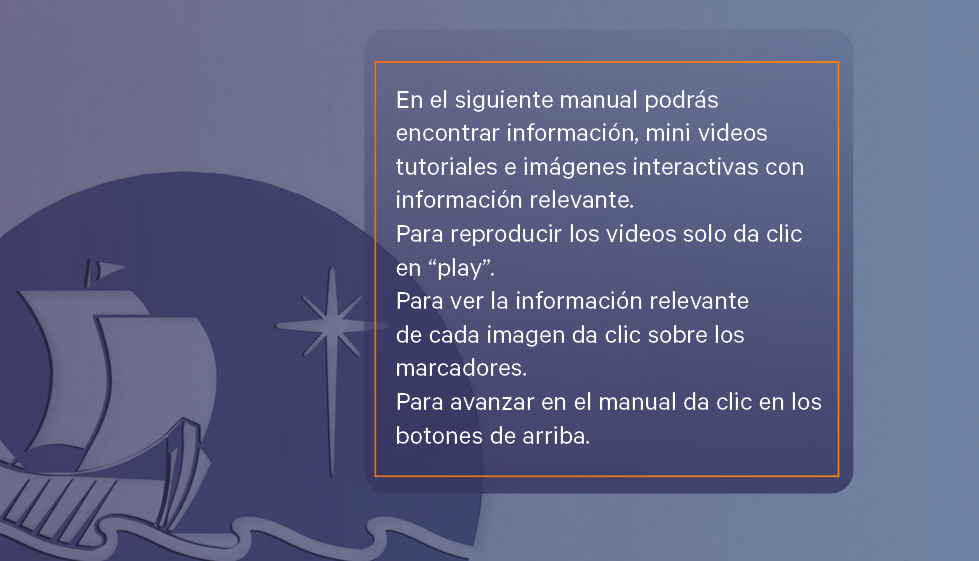
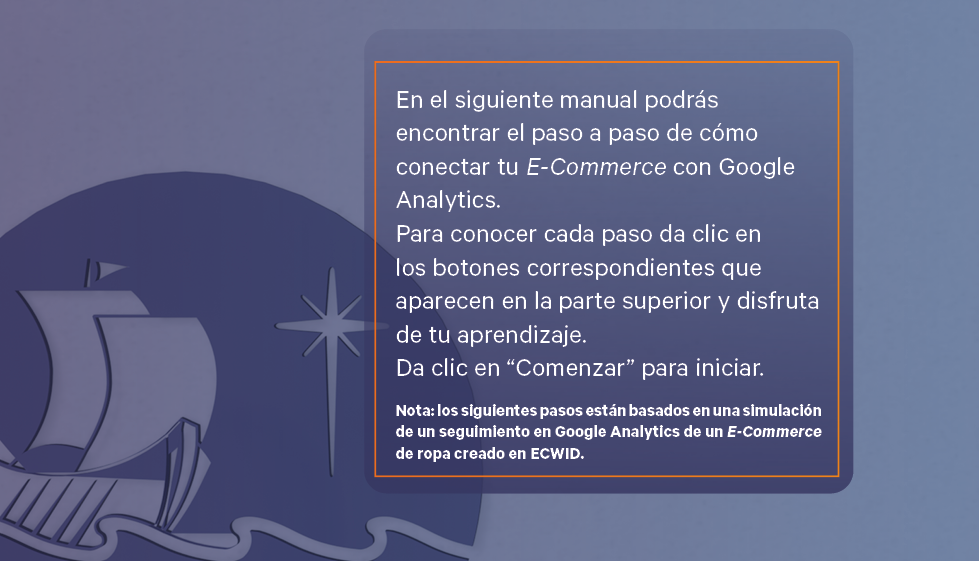
cambio

Changed region(s): [[0.3984, 0.2121, 0.8274, 0.6667], [0.3984, 0.697, 0.858, 0.8182]]

diff --git a/contenido.html b/contenido.html
@@ -30,25 +30,18 @@
         <button class="btn_nav paso6">Paso 6</button>
         <button class="btn_nav final">Final</button>
 
-        <div class="cuerpo">Configura tu cuenta. Es decir ese administrador que va estar analizando uno o varios sitos o
-          incluso una aplicación.</div>
+        <div class="cuerpo">Configura tu cuenta. Es decir ese administrador que va a estar analizando uno o varios sitos
+          o incluso una aplicación.</div>
         <div class="imagenes-1">
-          <img class="img2" src="images\Picture2.png" alt="" srcset=""><img class="img2" src="images\Picture3.png"
-            alt="" srcset="">
+          <img class="img2" src="images\Picture8.png" alt="" srcset="">
+          <div class="lista">
+            <ul>
+              <li>Agrega el nombre con el que quieres manejar tu cuenta. Ejemplo: “Negocios de Giulio.”</li><br><br><br>
+              <li>Selecciona cómo quieres compartir datos de la cuenta con Google. En este simulador seleccionamos
+                “Todos”.</li>
+            </ul>
+          </div>
         </div>
-        <div class="imagenes-1">
-          <div class="cuerpo2">Configura tu cuenta. Es decir ese administrador que va estar analizando uno o varios
-            sitos
-            o
-            incluso una aplicación.</div>
-          <div class="cuerpo2">Configura tu cuenta. Es decir ese administrador que va estar analizando uno o varios
-            sitos
-            o
-            incluso una aplicación.</div>
-        </div>
-
-
-
       </div>
     </div>
   </div>
@@ -72,10 +65,10 @@
 
         <div class="cuerpo3">
           <img src="images\Picture4.png" alt="" class="imgp3">
-          <div class="textop3">Una cuenta es administrador que define una serie de propiedades.
-            Y una propiedad es aquella que va a estar conectada a un sitio o una aplicación que tú quieras analizar.
-            Ejemplo: <i>E-Commerce</i> - Ropa hombre y mujer.Recuerda que tu decides que nombre ponerle, dependiendo tu
-            administración.
+          <div class="textop3">Una cuenta de administrador define una serie de propiedades. <br> <br> <br>Y una
+            propiedad es aquella que va a estar conectada a un sitio o aplicación que quieras analizar.<br> <br>
+            <br>Ejemplo: <i>E-Commerce</i> - Ropa hombre y mujer.<br> <br> <br> Recuerda que tú decides qué nombre
+            ponerle, dependiendo tu administración.
           </div>
         </div>
         <div class="cuerpo4">Ajusta tu zona horaria y tu moneda según donde te encuentres.</div>
@@ -120,6 +113,7 @@
       <div id="contact">
         <h1>Paso 5</h1>
 
+
         <button class="btn_nav paso1 visitado">Paso 1</button>
         <button class="btn_nav paso2 visitado">Paso 2</button>
         <button class="btn_nav paso3 visitado">Paso 3</button>
@@ -128,15 +122,16 @@
         <button class="btn_nav paso6">Paso 6</button>
         <button class="btn_nav final">Final</button>
 
+        <div class="cuerpo">Configura cada propiedad, dando clic sobre ella y agregando el código de seguimiento.</div>
+
         <div class="cuerpo3">
           <iframe
             src="https://cdnapisec.kaltura.com/p/2384071/sp/238407100/embedIframeJs/uiconf_id/44235471/partner_id/2384071?iframeembed=true&playerId=kaltura_player_1669368029&entry_id=1_m3nw7ryc"
             style="border:0px #ffffff none; margin-top: 10px; margin-left: 20px;" name="myiFrame" scrolling="no"
             frameborder="1" marginheight="0px" marginwidth="0px" height="380px" width="700px" allowfullscreen></iframe>
-          <div class="textop3">Una cuenta es administrador que define una serie de propiedades.
-            Y una propiedad es aquella que va a estar conectada a un sitio o una aplicación que tú quieras analizar.
-            Ejemplo: <i>E-Commerce</i> - Ropa hombre y mujer.Recuerda que tu decides que nombre ponerle, dependiendo tu
-            administración.
+          <div class="textop3">El código de seguimiento es un código que brinda Google Analytics, para que pueda empezar
+            a obtener la data de tu comercio electrónico. <br><br><br> Este código debes ponerlo dentro de tu sitio de
+            <i>E-Commerce.</i> <br><br><br> Revisa el video para saber cómo hacerlo.
           </div>
         </div>
 
@@ -160,24 +155,24 @@
         <button class="activo paso6">Paso 6</button>
         <button class="btn_nav final">Final</button>
 
-        <div class="cuerpo6">Pon aprueba tu código de seguimiento. Verifica que ya estás obteniendo tráfico de data
+        <div class="cuerpo6">Pon a prueba tu código de seguimiento. Verifica que ya estás obteniendo tráfico de data
           dentro de Universal Analytics. Puedes hacerlo compartiendo el URL de tu sitio con algunos de tus amigos y
-          familiares, en caso de que aún no este muy activo tu <i>E-Commerce</i>.
+          familiares, en caso de que tu <i>E-Commerce</i> aún no esté muy activo.
         </div>
 
         <div class="cuerpo3">
-          <div class="textop6">Para verificar haz clic en informes en la columna izquierda y posteriormente en resumen
-            para que puedas verificar los usuarios activos en tu E-Commerce.
-            <div class="cuerpo7">Pon aprueba tu código de seguimiento. Verifica que ya estás obteniendo tráfico de data
-              dentro de Universal Analytics. Puedes hacerlo compartiendo el URL de tu sitio con algunos de tus amigos y
-              familiares, en caso de que aún no este muy activo tu <i>E-Commerce</i>.
+          <div class="textop6">Para verificar haz clic en “Informes” en la columna izquierda y posteriormente en
+            “Resumen” para que puedas verificar los usuarios activos en tu <i>E-Commerce</i>.
+
+            <div class="cuerpo7">Da clic en cada marcador de la imagen para saber qué otros datos te brinda el resumen
+              en tiempo real.
             </div>
           </div>
           <img src="images\Picture5.png" alt="" class="imgp3">
         </div>
 
-        <a class="boton btn1" href="#popup1">1</a>
-        <a class="boton btn2" href="#popup2">2</a>
+        <a class="boton btn1" href="#popup1">+</a>
+        <a class="boton btn2" href="#popup2">+</a>
 
         <div id="popup1" class="overlay">
           <div class="popup">
@@ -200,27 +195,27 @@
       </div>
     </div>
   </div>
-   <!--
+  <!--
 		//	skills
 		///////////////////////////////////-->
-    <div class="page__style skills2">
-      <div class="page__description">
-        <div id="skills">
-          <h1></h1>
-  
-          <button class="btn_nav paso1 visitado">Paso 1</button>
-          <button class="btn_nav paso2 visitado">Paso 2</button>
-          <button class="btn_nav paso3 visitado">Paso 3</button>
-          <button class="btn_nav paso4 visitado">Paso 4</button>
-          <button class="btn_nav paso5 visitado">Paso 5</button>
-          <button class="btn_nav paso6 visitado">Paso 6</button>
-          <button class="activo final">Final</button>
-  
-          <img class="imagen-1" src="images\Picture6.png" alt="" srcset="">
-  
-        </div>
+  <div class="page__style skills2">
+    <div class="page__description">
+      <div id="skills">
+        <h1></h1>
+
+        <button class="btn_nav paso1 visitado">Paso 1</button>
+        <button class="btn_nav paso2 visitado">Paso 2</button>
+        <button class="btn_nav paso3 visitado">Paso 3</button>
+        <button class="btn_nav paso4 visitado">Paso 4</button>
+        <button class="btn_nav paso5 visitado">Paso 5</button>
+        <button class="btn_nav paso6 visitado">Paso 6</button>
+        <button class="activo final">Final</button>
+
+        <img class="imagen-1" src="images\Picture6.png" alt="" srcset="">
+
       </div>
     </div>
+  </div>
   <!--
 		//	home
 		///////////////////////////////////-->
@@ -239,8 +234,9 @@
         <button class="btn_nav paso6">Paso 6</button>
         <button class="btn_nav final">Final</button>
 
-        <div class="cuerpo">Ingresa a Google Analytics asociando una cuenta de correo electrónico, para poder crear
-          una cuenta de comercio electrónico dentro de está herramienta.</div>
+        <div class="cuerpo">Ingresa a Google Analytics asociando una cuenta de correo electrónico, para poder crear una
+          cuenta de comercio electrónico dentro de esta herramienta.
+        </div>
 
         <img class="imagen-1" src="images\Picture1.png" alt="" srcset="">
       </div>

diff --git a/style.css b/style.css
@@ -164,7 +164,7 @@ opacity: 0.7;
 }
 
 .img2 {
-  width: 47%;
+  width: 70%;
   margin: 13px;
   box-shadow: 10px 10px 23px -2px rgba(0,0,0,0.45);
   -webkit-box-shadow: 10px 10px 23px -2px rgba(0,0,0,0.45);
@@ -318,6 +318,12 @@ opacity: 0.7;
   position: absolute;
  margin-top: 3px;
  margin-left: -8px;
+}
+.lista{
+  width: 20%;
+  margin-left: 20px;
+  margin-top: 10px;
+  text-align: justify;
 }
 
 /*****************************************************************
